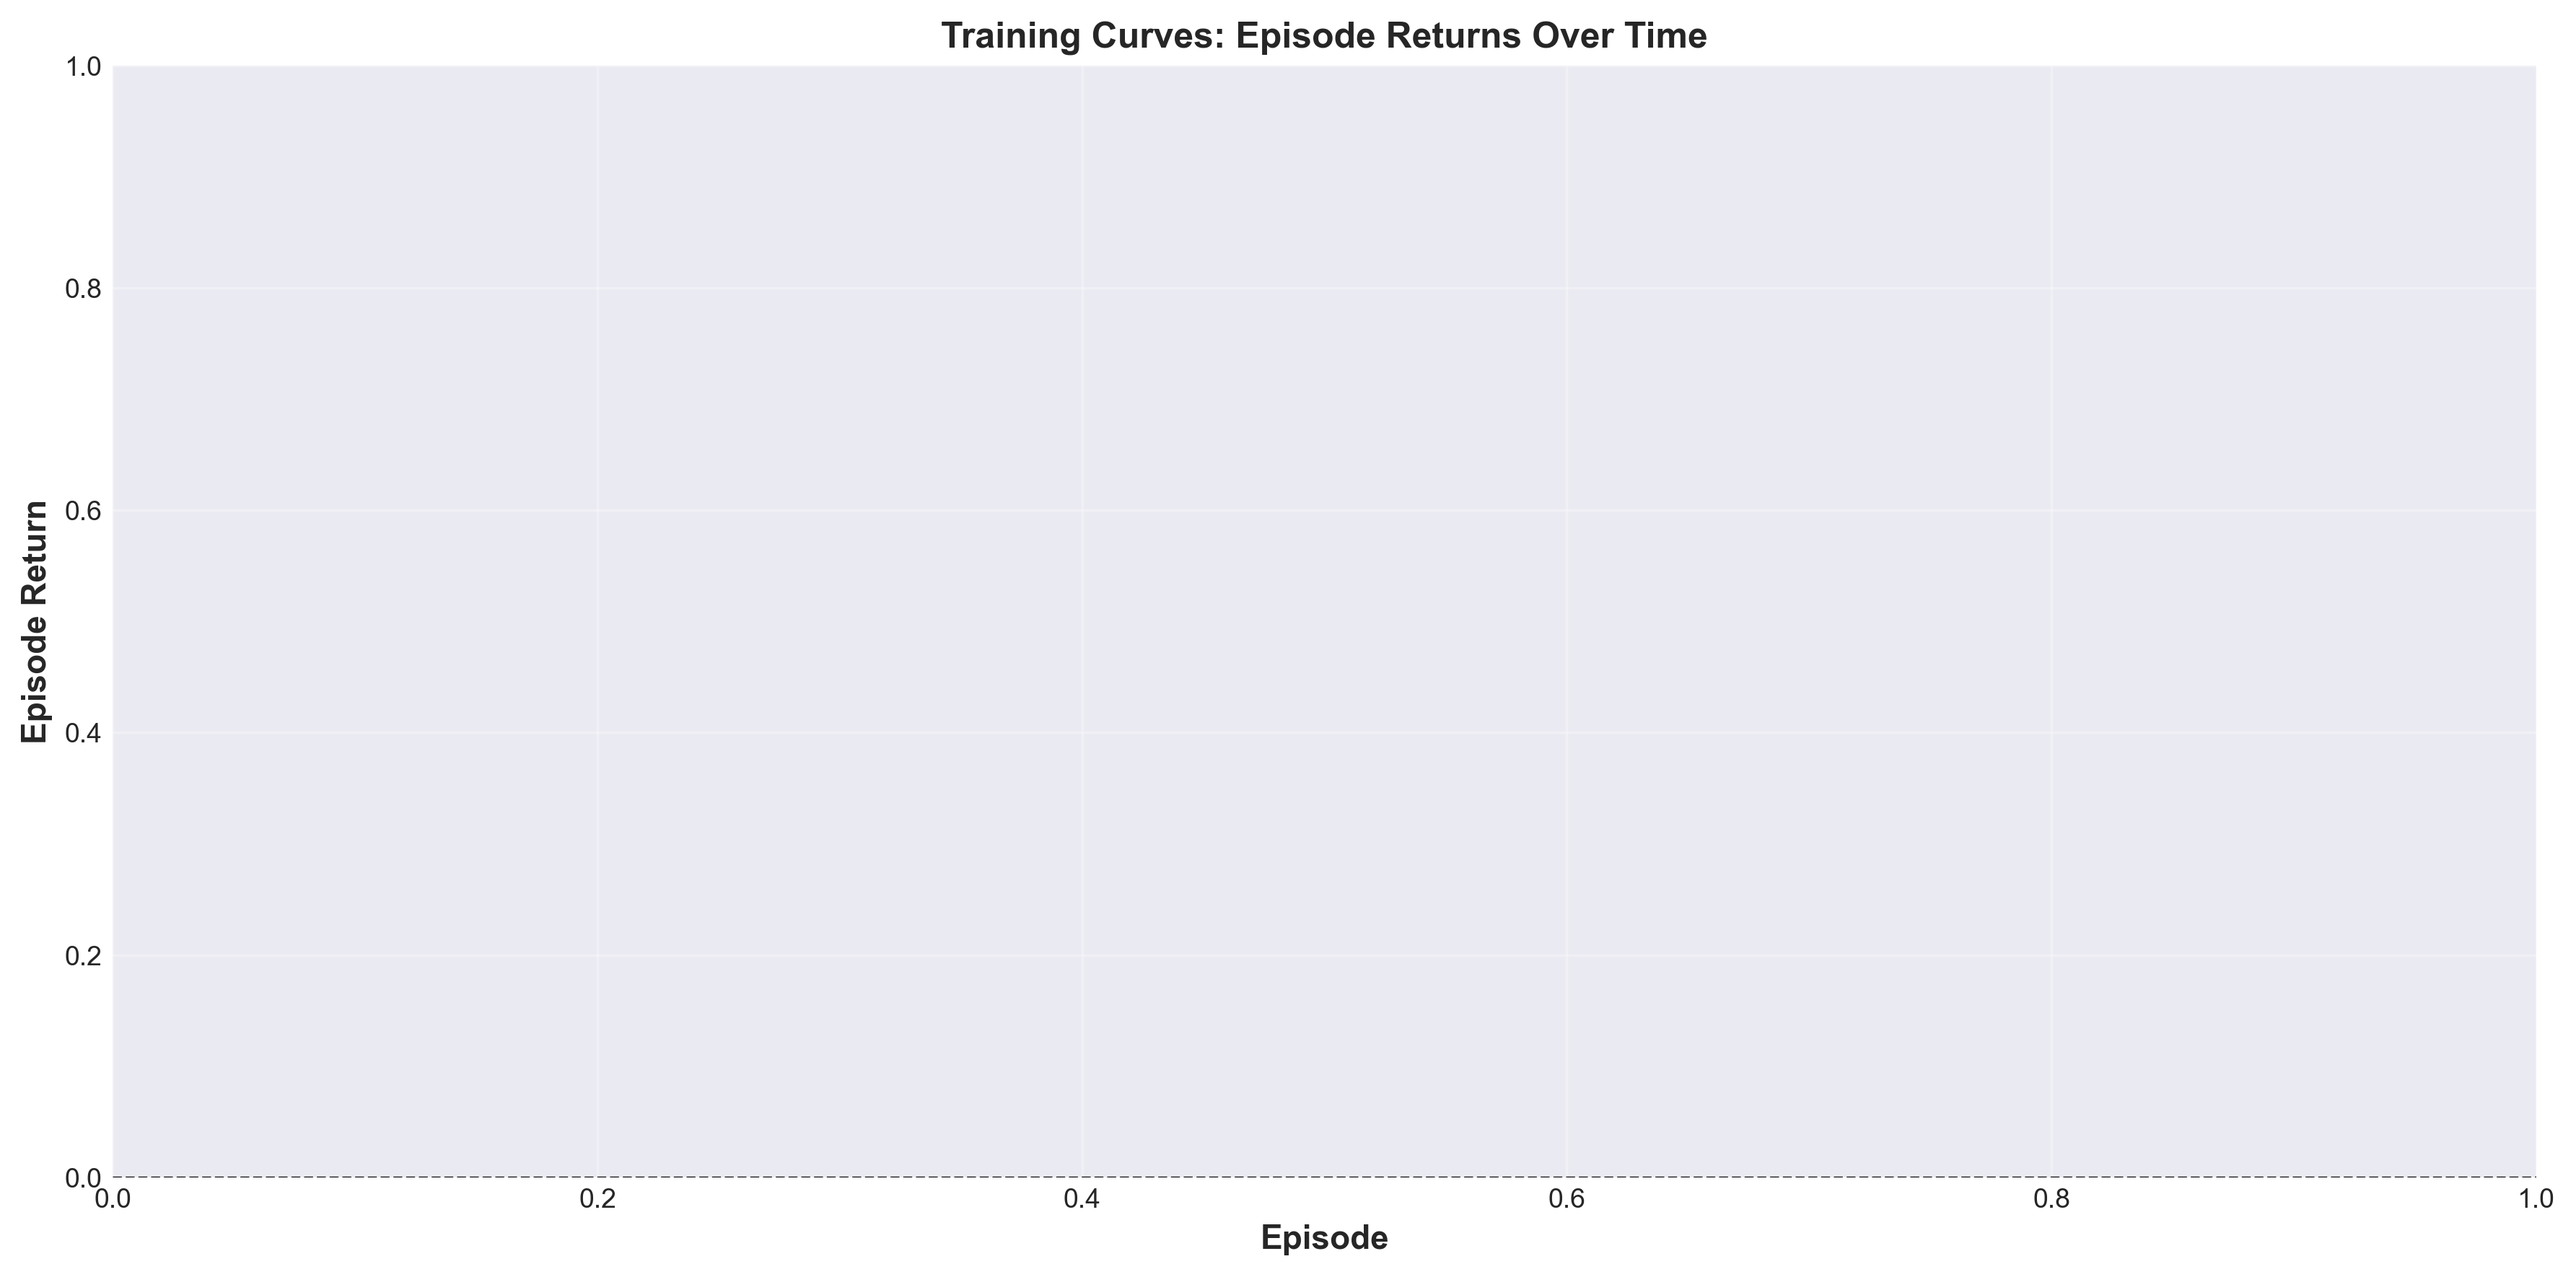
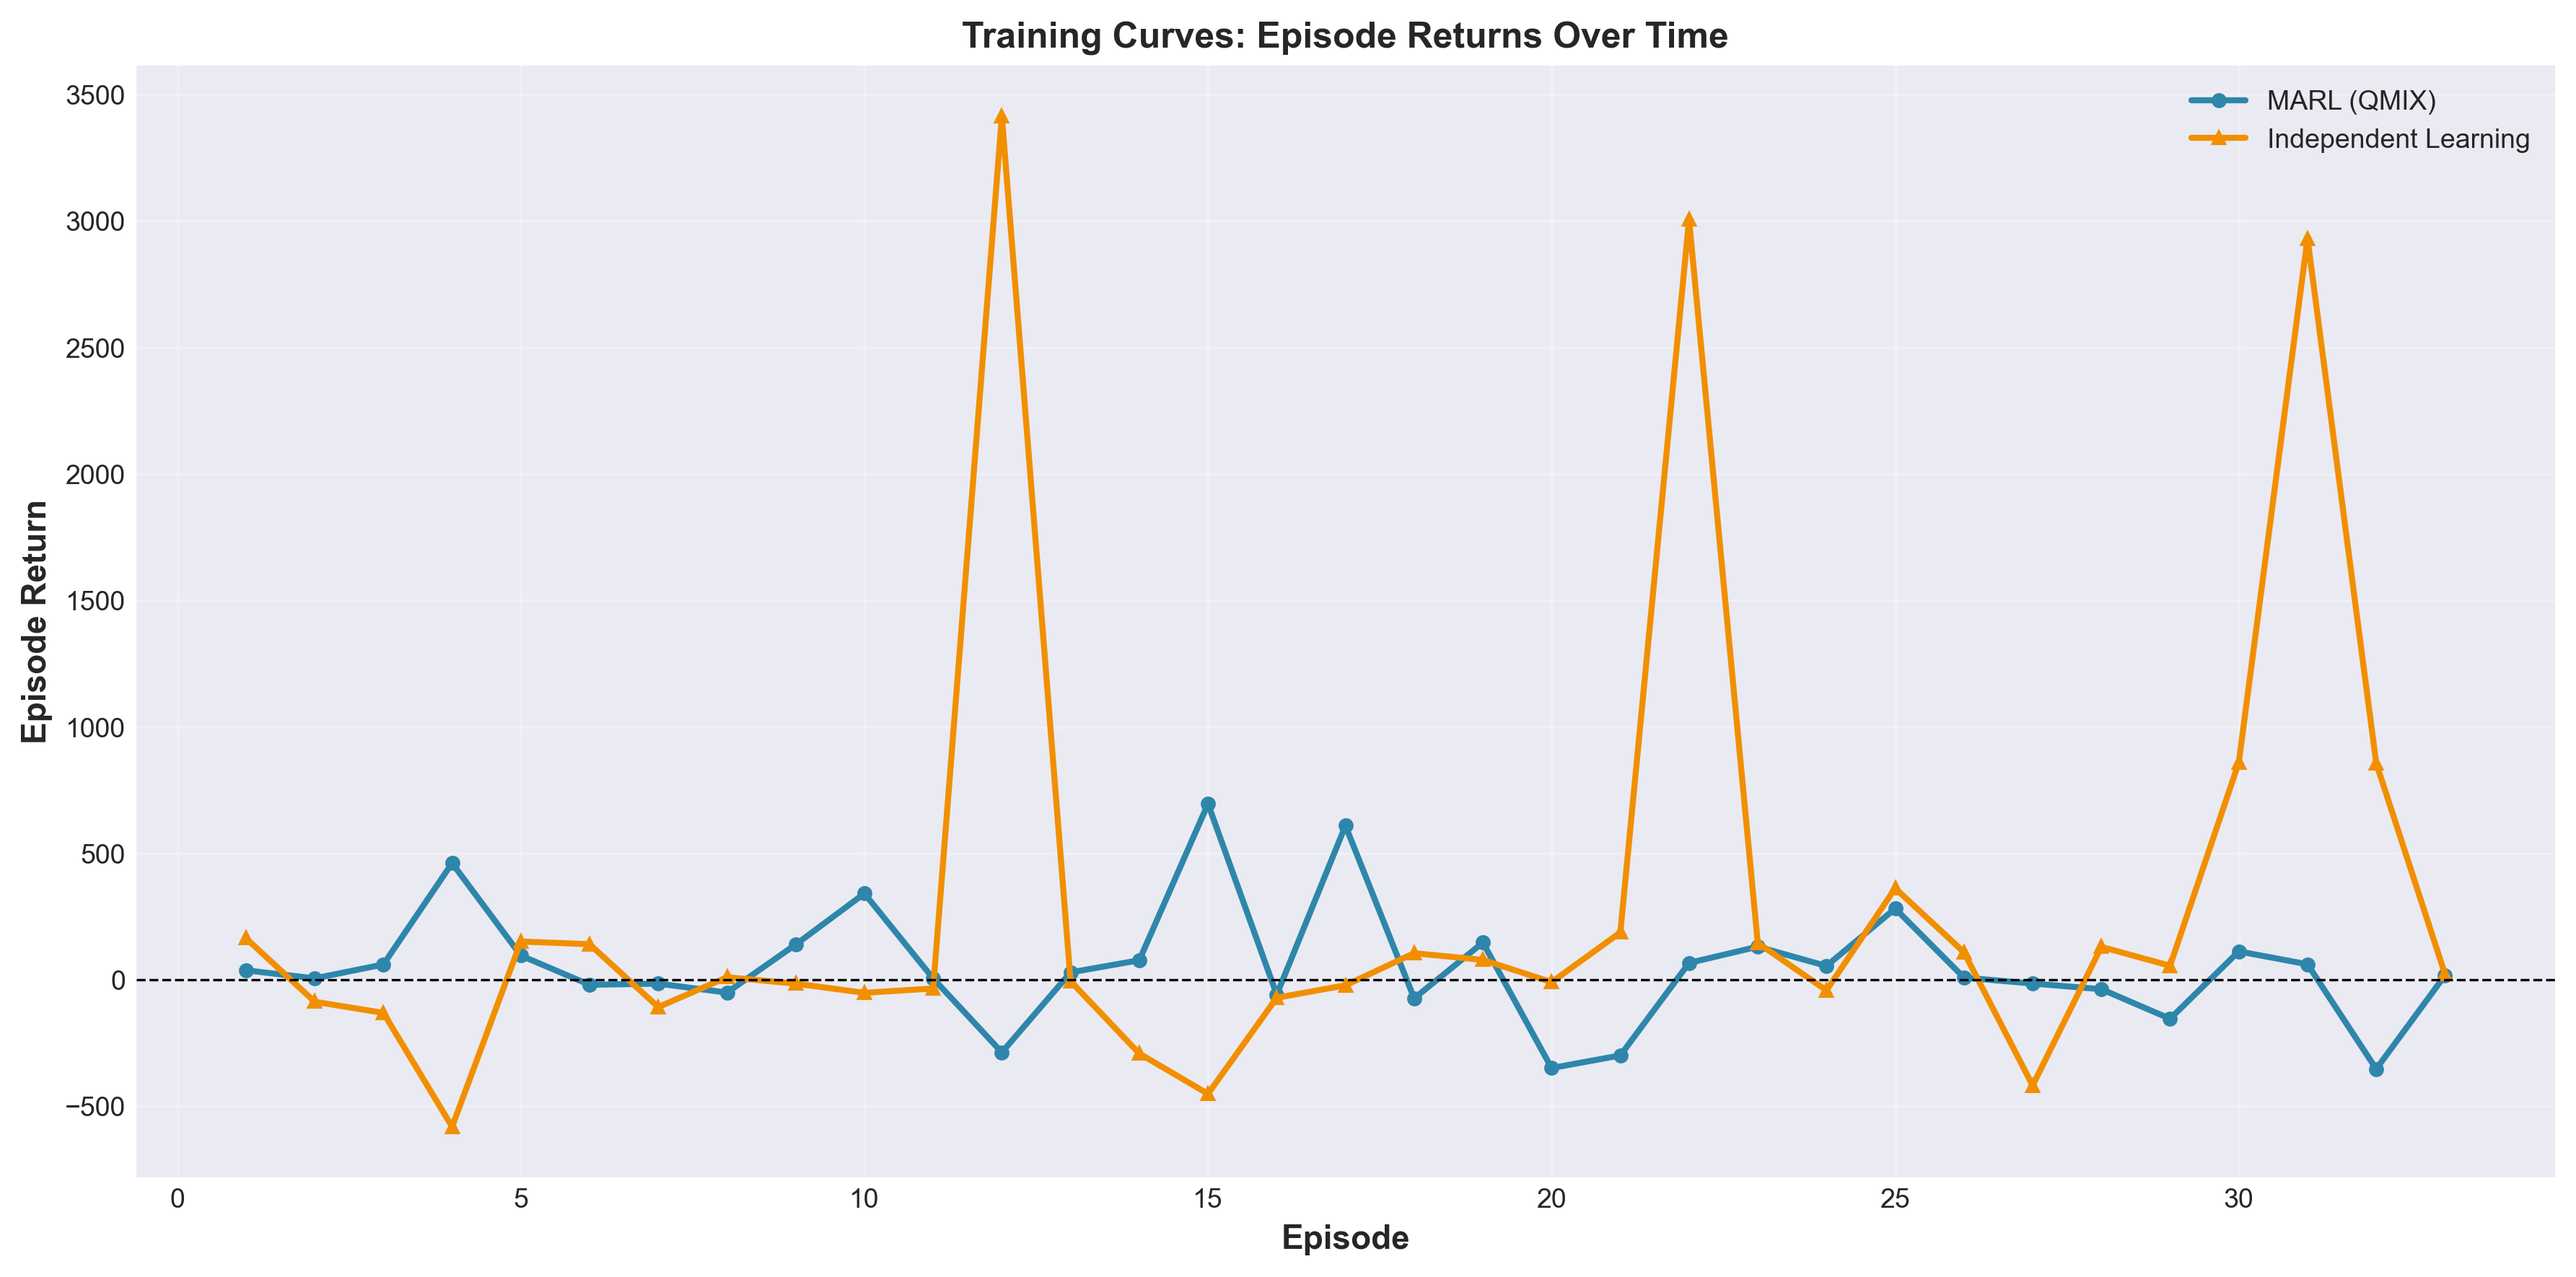
Update figure

diff --git a/scripts/generate_marl_ablation_figures.py b/scripts/generate_marl_ablation_figures.py
@@ -44,6 +44,25 @@ def load_marl_ablation_data():
     with open(results_file, 'r') as f:
         results = json.load(f)
     
+    # If episode_returns not in results, load from original files
+    if 'MARL_QMIX' in results and 'episode_returns' not in results['MARL_QMIX']:
+        # Try to load from multi_agent_results.json
+        marl_file = RESULTS_DIR / "multi_agent_results.json"
+        if marl_file.exists():
+            with open(marl_file, 'r') as f:
+                marl_data = json.load(f)
+                if 'training_statistics' in marl_data and 'episode_returns' in marl_data['training_statistics']:
+                    results['MARL_QMIX']['episode_returns'] = marl_data['training_statistics']['episode_returns']
+    
+    if 'Independent_Learning' in results and 'episode_returns' not in results['Independent_Learning']:
+        # Try to load from independent_learning_training_stats.json
+        iql_file = RESULTS_DIR / "independent_learning_training_stats.json"
+        if iql_file.exists():
+            with open(iql_file, 'r') as f:
+                iql_data = json.load(f)
+                if 'episode_returns' in iql_data:
+                    results['Independent_Learning']['episode_returns'] = iql_data['episode_returns']
+    
     summary_df = pd.read_csv(summary_file) if summary_file.exists() else None
     
     return results, summary_df
